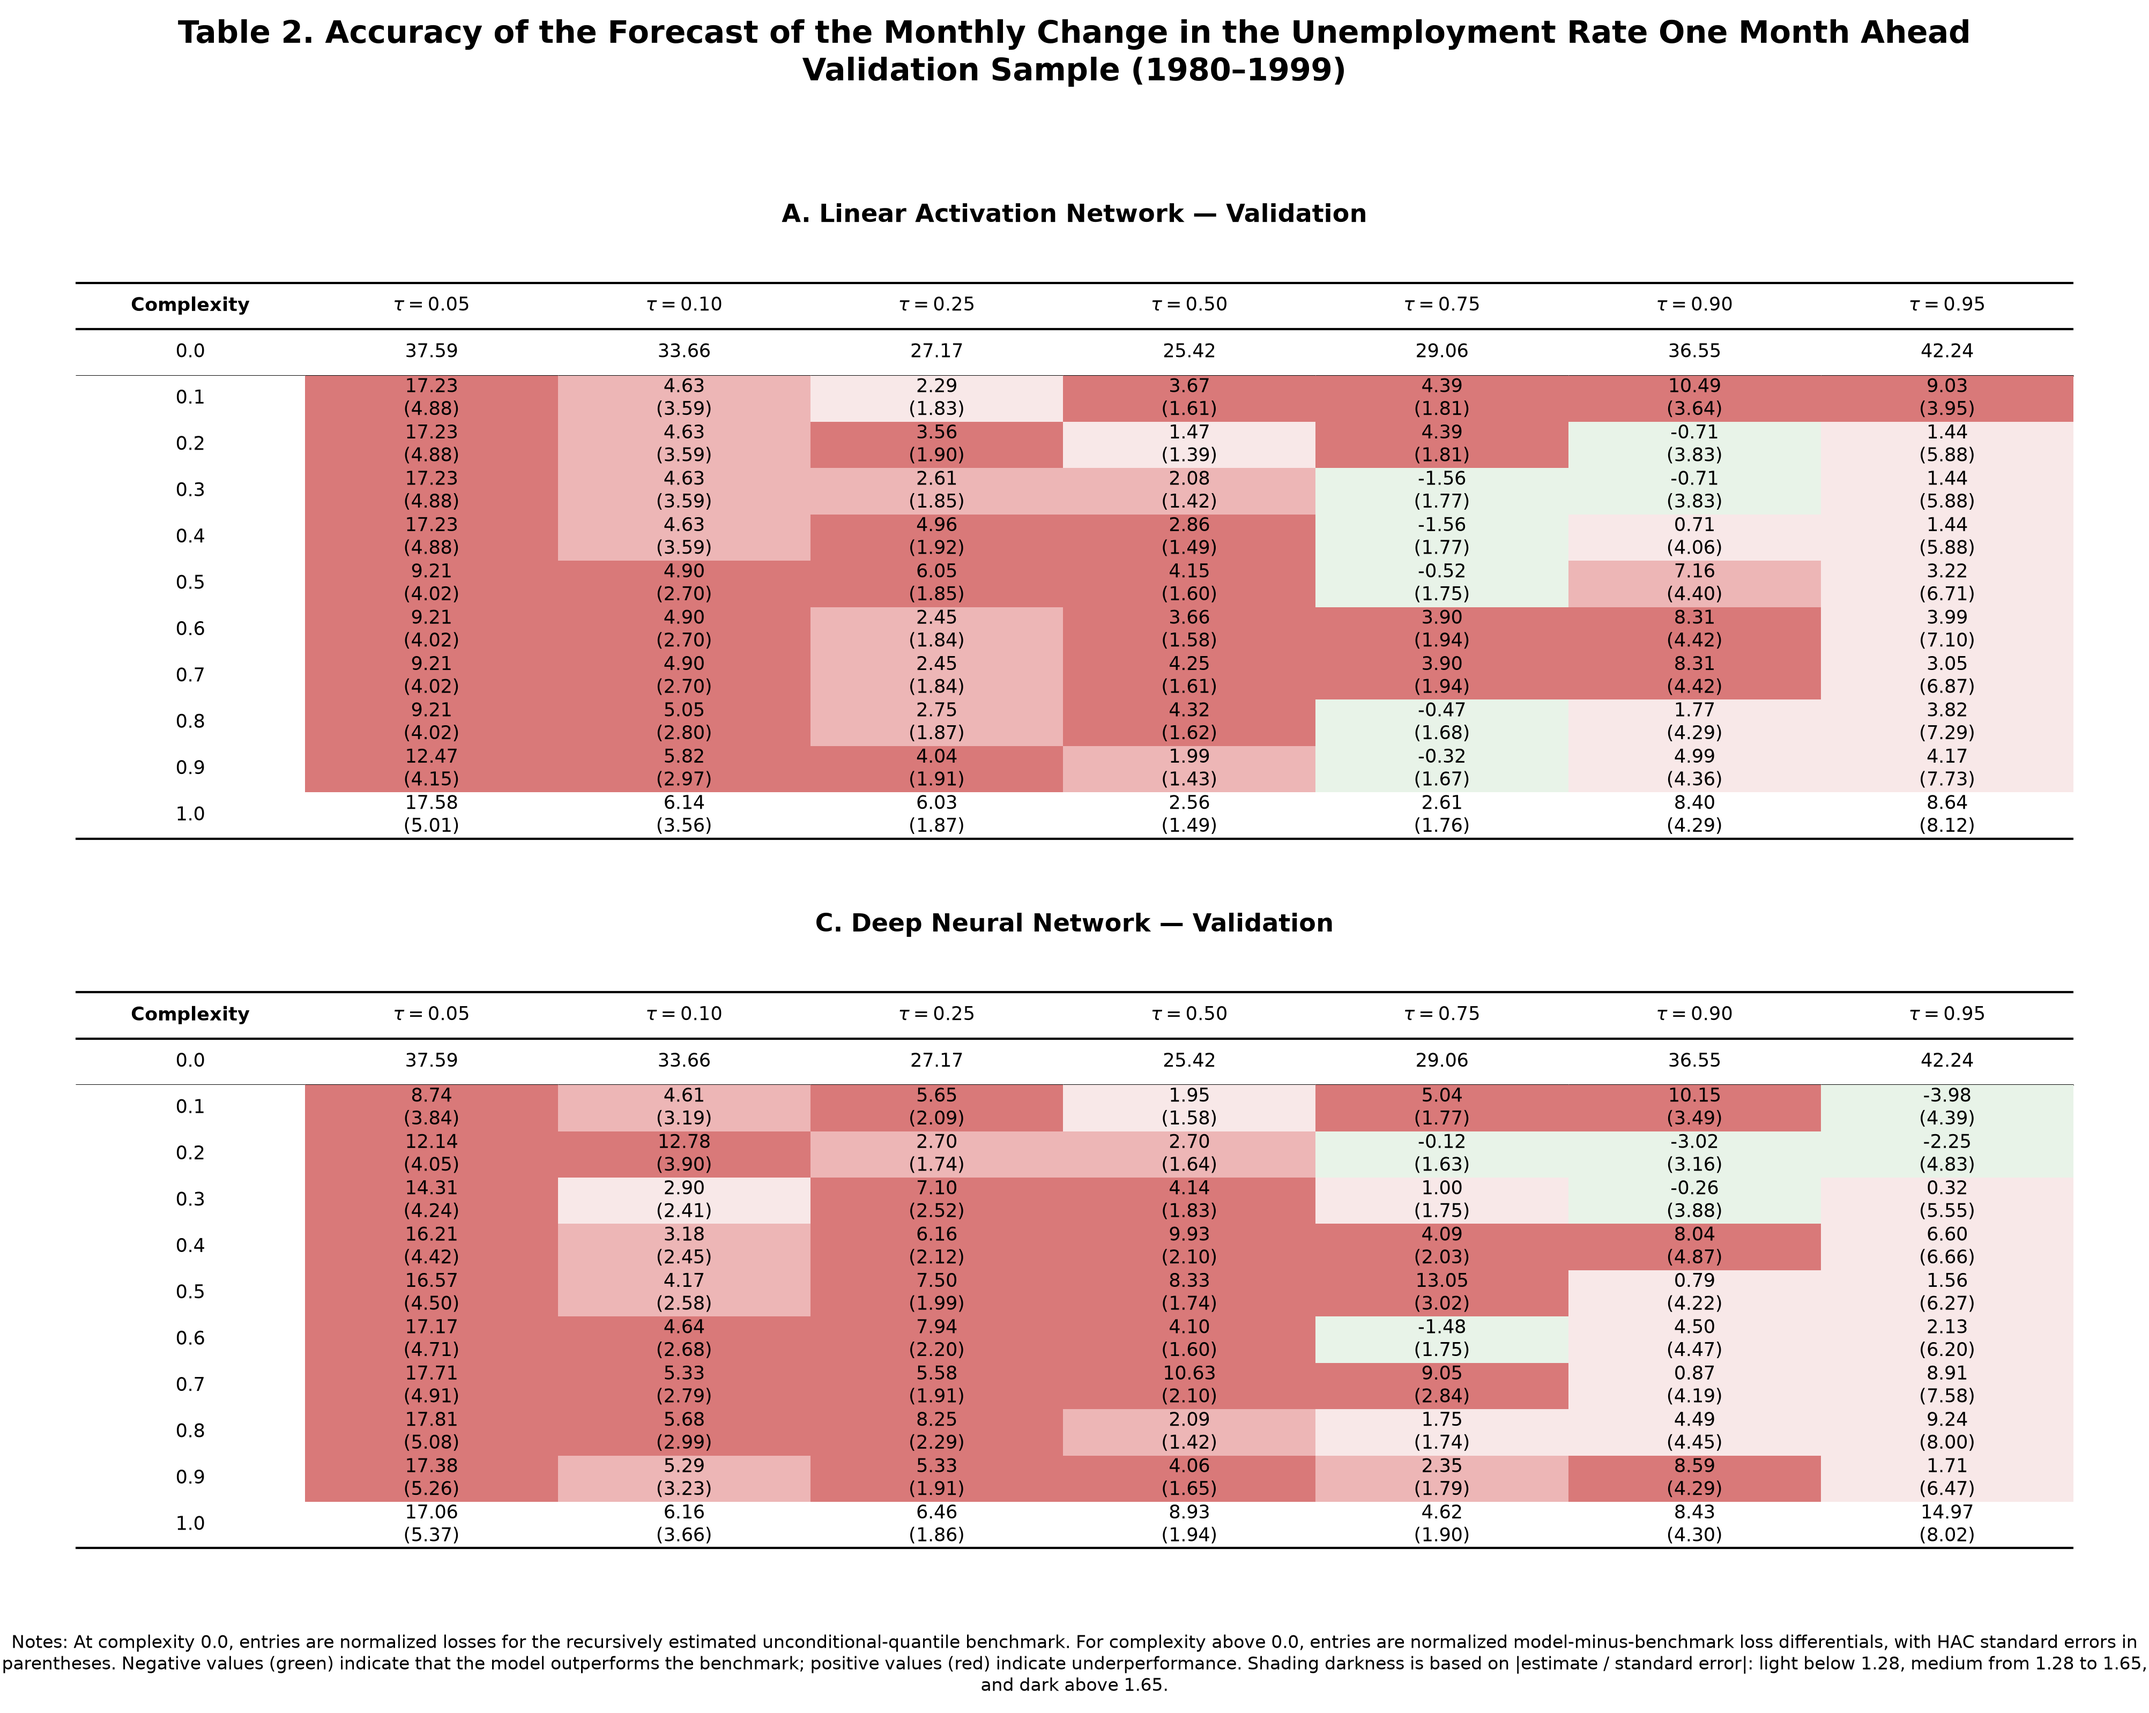
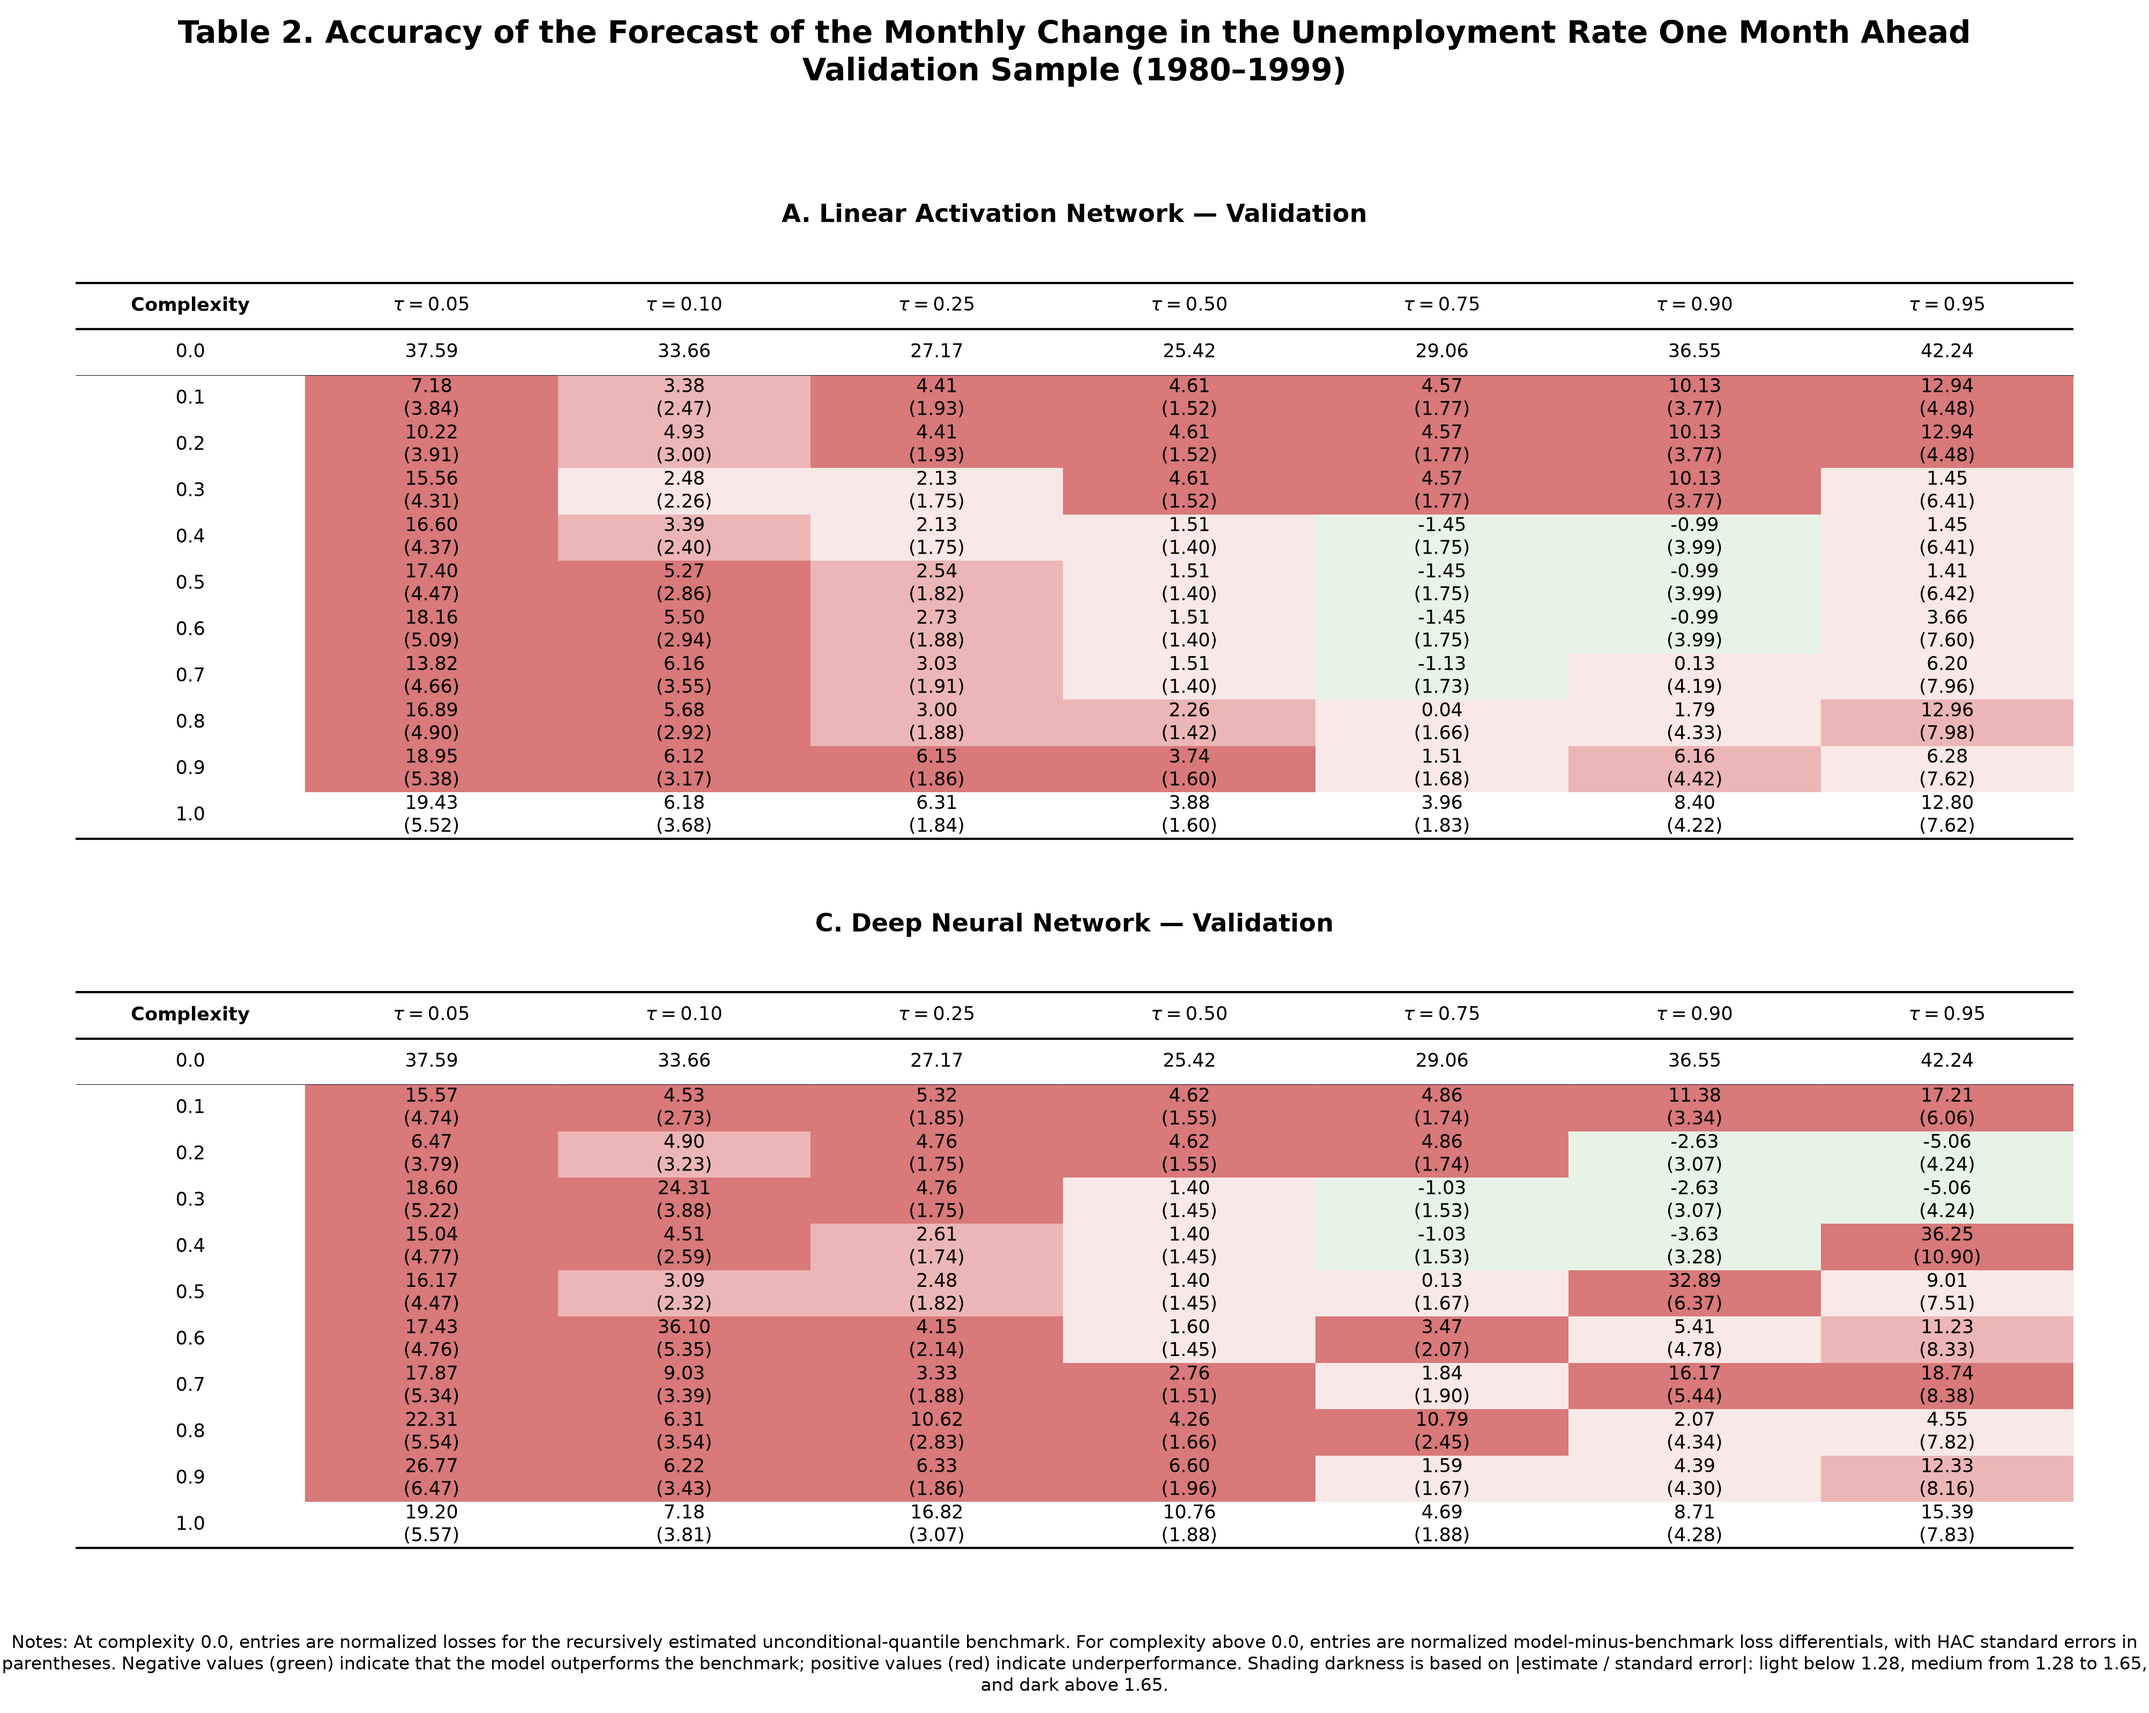
Improve complexity mapping and update replication tables

diff --git a/08_complexity_tables.py b/08_complexity_tables.py
@@ -145,11 +145,11 @@ LEARNING_RATE = 0.0001
 
 TRAINING_SETTINGS = {
     "linear_activation": {
-        "epochs_initial": 500,
+        "epochs_initial": 1500,
         "epochs_update": 100,
     },
     "dnn": {
-        "epochs_initial": 750,
+        "epochs_initial": 1500,
         "epochs_update": 150,
     },
 }
